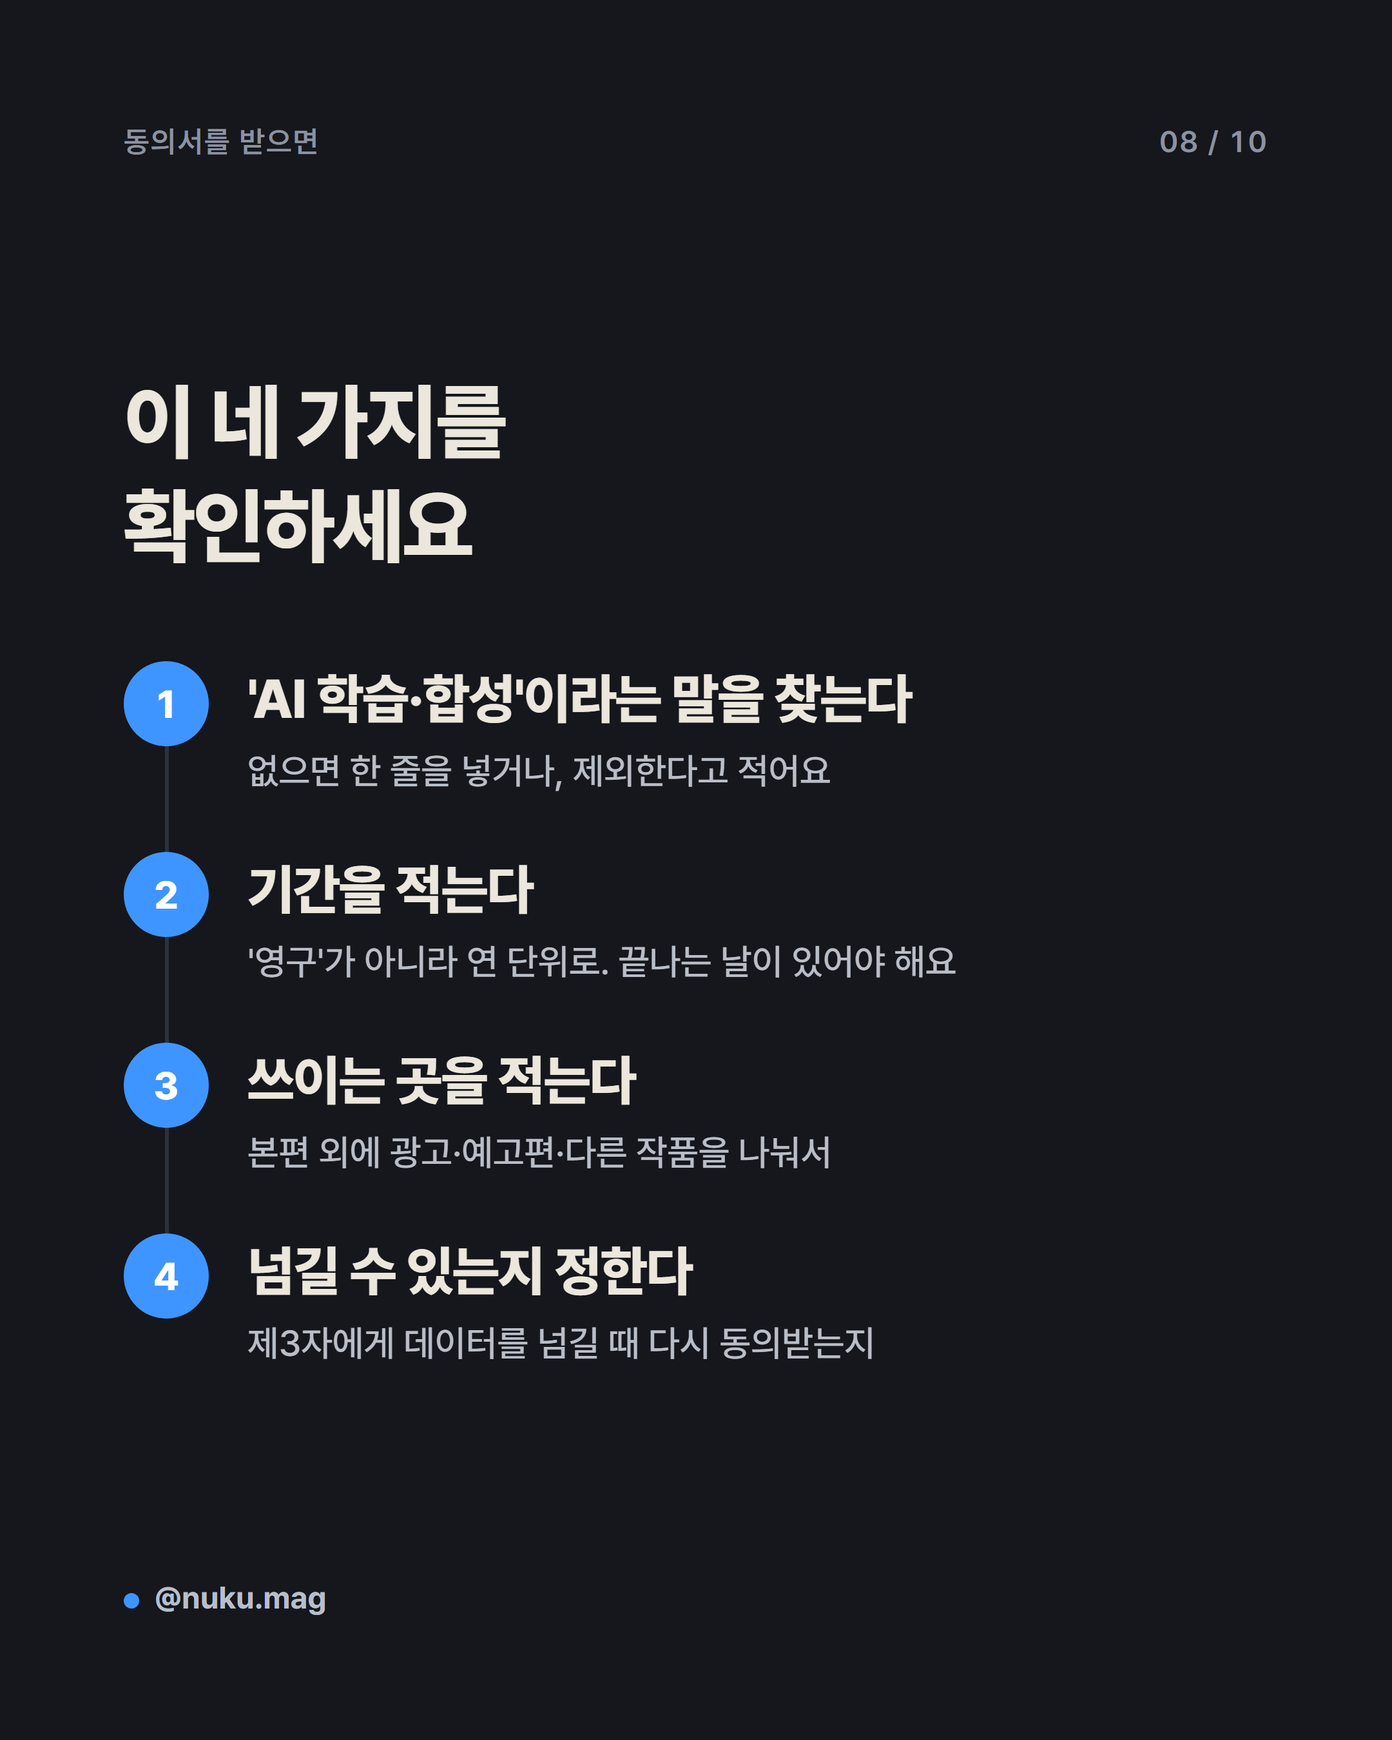
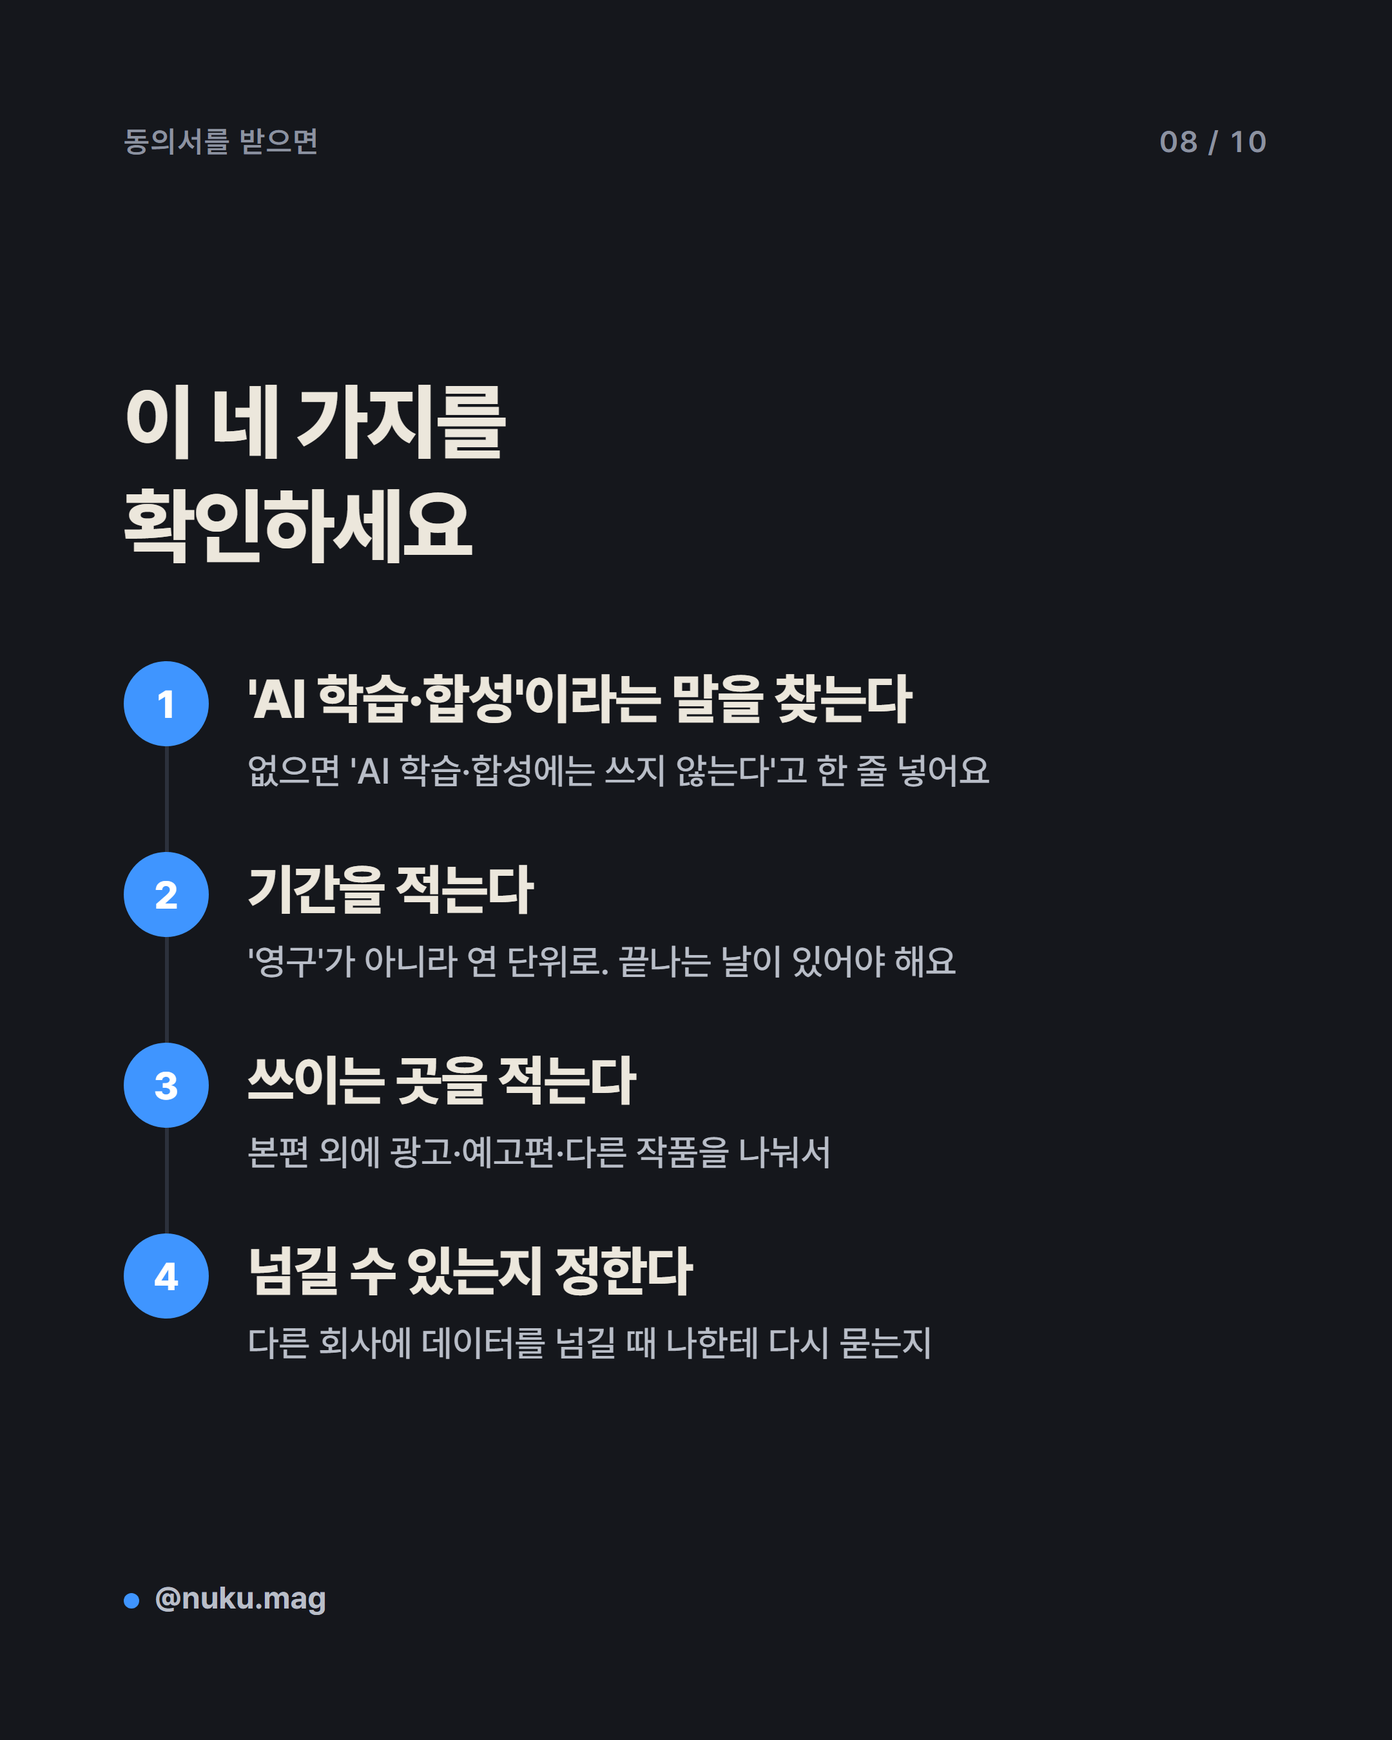
69 AI합성·출연동의 — 재검증·쉬운말 수정(상담처 132, 시행령 18조 3호, 초상권 문장 정정)
Claude-Session: https://claude.ai/code/session_01N64YUSqSatypwqokCkaxEy

Changed region(s): [[0.1861, 0.7467, 0.6824, 0.7778], [0.2481, 0.4356, 0.7134, 0.4667]]

diff --git a/69_AI합성_출연동의/card08.html b/69_AI합성_출연동의/card08.html
@@ -112,7 +112,7 @@ u{text-decoration:none;background:linear-gradient(transparent 62%,color-mix(in s
 .step .st{flex:1;padding-top:4px;}
 .step .sh{font-size:42px;font-weight:800;line-height:1.22;letter-spacing:-.02em;}
 .step .sd{font-size:28px;color:var(--soft);line-height:1.45;margin-top:10px;font-weight:500;}
-</style></head><body><div class="frame"><div class="top"><span>동의서를 받으면</span><span class="num">08 / 10</span></div><div class="body"><div class="h2" style="margin-bottom:30px">이 네 가지를<br>확인하세요</div><div class="steps"><div class="step"><div class="sc">1</div><div class="ln"></div><div class="st"><div class="sh">'AI 학습·합성'이라는 말을 찾는다</div><div class="sd">없으면 한 줄을 넣거나, 제외한다고 적어요</div></div></div><div class="step"><div class="sc">2</div><div class="ln"></div><div class="st"><div class="sh">기간을 적는다</div><div class="sd">'영구'가 아니라 연 단위로. 끝나는 날이 있어야 해요</div></div></div><div class="step"><div class="sc">3</div><div class="ln"></div><div class="st"><div class="sh">쓰이는 곳을 적는다</div><div class="sd">본편 외에 광고·예고편·다른 작품을 나눠서</div></div></div><div class="step"><div class="sc">4</div><div class="ln"></div><div class="st"><div class="sh">넘길 수 있는지 정한다</div><div class="sd">제3자에게 데이터를 넘길 때 다시 동의받는지</div></div></div></div></div><div class="bot"><span class="h"><span class="dot"></span>@nuku.mag</span></div></div><script>
+</style></head><body><div class="frame"><div class="top"><span>동의서를 받으면</span><span class="num">08 / 10</span></div><div class="body"><div class="h2" style="margin-bottom:30px">이 네 가지를<br>확인하세요</div><div class="steps"><div class="step"><div class="sc">1</div><div class="ln"></div><div class="st"><div class="sh">'AI 학습·합성'이라는 말을 찾는다</div><div class="sd">없으면 'AI 학습·합성에는 쓰지 않는다'고 한 줄 넣어요</div></div></div><div class="step"><div class="sc">2</div><div class="ln"></div><div class="st"><div class="sh">기간을 적는다</div><div class="sd">'영구'가 아니라 연 단위로. 끝나는 날이 있어야 해요</div></div></div><div class="step"><div class="sc">3</div><div class="ln"></div><div class="st"><div class="sh">쓰이는 곳을 적는다</div><div class="sd">본편 외에 광고·예고편·다른 작품을 나눠서</div></div></div><div class="step"><div class="sc">4</div><div class="ln"></div><div class="st"><div class="sh">넘길 수 있는지 정한다</div><div class="sd">다른 회사에 데이터를 넘길 때 나한테 다시 묻는지</div></div></div></div></div><div class="bot"><span class="h"><span class="dot"></span>@nuku.mag</span></div></div><script>
 (function(){
   function fit(el){
     var maxH=parseFloat(el.dataset.fith)||470,

diff --git a/69_AI합성_출연동의/card09.html b/69_AI합성_출연동의/card09.html
@@ -112,7 +112,7 @@ u{text-decoration:none;background:linear-gradient(transparent 62%,color-mix(in s
 .step .st{flex:1;padding-top:4px;}
 .step .sh{font-size:42px;font-weight:800;line-height:1.22;letter-spacing:-.02em;}
 .step .sd{font-size:28px;color:var(--soft);line-height:1.45;margin-top:10px;font-weight:500;}
-</style></head><body><div class="frame"><div class="top"><span>저장 포인트</span><span class="num">09 / 10</span></div><div class="body"><div class="h2" style="margin-bottom:40px">오늘의<br>저장 포인트</div><div class="srow"><div class="snum">1</div><div class="slabel">'촬영물 사용' 동의와 'AI 학습·합성' 동의는 다른 얘기다</div></div><div class="srow"><div class="snum">2</div><div class="slabel">부정경쟁방지법 타목은 '국내에 널리 인식되고'를 요건으로 한다</div></div><div class="srow"><div class="snum">3</div><div class="slabel">얼굴·음성으로 만든 식별 정보는 민감정보라 별도 동의가 필요하다</div></div><div class="srow"><div class="snum">4</div><div class="slabel">인격표지영리권은 입법 논의 단계 — 지금은 동의서가 방어선이다</div></div></div><div class="bot"><span class="h"><span class="dot"></span>@nuku.mag</span></div></div><script>
+</style></head><body><div class="frame"><div class="top"><span>저장 포인트</span><span class="num">09 / 10</span></div><div class="body"><div class="h2" style="margin-bottom:40px">오늘의<br>저장 포인트</div><div class="srow"><div class="snum">1</div><div class="slabel">'촬영본 사용' 동의와 'AI 학습·합성' 동의는 다르다</div></div><div class="srow"><div class="snum">2</div><div class="slabel">유명인 조문은 단역·보조출연자에겐 적용되기 어렵다 — 동의서 문장이 기준</div></div><div class="srow"><div class="snum">3</div><div class="slabel">AI가 알아보도록 뽑아낸 얼굴·목소리 정보는 따로 동의가 필요하다</div></div><div class="srow"><div class="snum">4</div><div class="slabel">내 얼굴로 돈 벌 권리는 아직 법이 아니다 — 지금은 동의서가 답</div></div></div><div class="bot"><span class="h"><span class="dot"></span>@nuku.mag</span></div></div><script>
 (function(){
   function fit(el){
     var maxH=parseFloat(el.dataset.fith)||470,

diff --git a/69_AI합성_출연동의/card03.html b/69_AI합성_출연동의/card03.html
@@ -112,7 +112,7 @@ u{text-decoration:none;background:linear-gradient(transparent 62%,color-mix(in s
 .step .st{flex:1;padding-top:4px;}
 .step .sh{font-size:42px;font-weight:800;line-height:1.22;letter-spacing:-.02em;}
 .step .sd{font-size:28px;color:var(--soft);line-height:1.45;margin-top:10px;font-weight:500;}
-</style></head><body><div class="frame"><div class="top"><span>비교</span><span class="num">03 / 10</span></div><div class="body"><span class="label">같은 얼굴, 다른 이야기</span><div class="cmp"><div class="col"><div class="nm">찍은 것을 쓴다</div><p>촬영한 장면을 편집해 내보낸다</p><p>내가 한 연기 그대로</p></div><div class="col"><div class="nm" style="color:var(--accent)">찍은 것으로 만든다</div><p>얼굴·목소리를 학습시켜 새 장면을 만든다</p><p>내가 한 적 없는 말과 표정</p></div></div><div class="punch">동의서에 '촬영물 사용'만 적혀 있으면 오른쪽까지 허락한 건지 다투게 됩니다.</div></div><div class="bot"><span class="h"><span class="dot"></span>@nuku.mag</span></div></div><script>
+</style></head><body><div class="frame"><div class="top"><span>비교</span><span class="num">03 / 10</span></div><div class="body"><span class="label">같은 얼굴, 다른 이야기</span><div class="cmp"><div class="col"><div class="nm">찍은 것을 쓴다</div><p>촬영한 장면을 편집해 내보낸다</p><p>내가 한 연기 그대로</p></div><div class="col"><div class="nm" style="color:var(--accent)">찍은 것으로 만든다</div><p>얼굴·목소리를 학습시켜 새 장면을 만든다</p><p>내가 한 적 없는 말과 표정</p></div></div><div class="punch">동의서에 '촬영물 사용'만 적혀 있으면, 오른쪽까지 허락한 건지를 두고 다투게 돼요.</div></div><div class="bot"><span class="h"><span class="dot"></span>@nuku.mag</span></div></div><script>
 (function(){
   function fit(el){
     var maxH=parseFloat(el.dataset.fith)||470,

diff --git a/69_AI합성_출연동의/card10.html b/69_AI합성_출연동의/card10.html
@@ -112,7 +112,7 @@ u{text-decoration:none;background:linear-gradient(transparent 62%,color-mix(in s
 .step .st{flex:1;padding-top:4px;}
 .step .sh{font-size:42px;font-weight:800;line-height:1.22;letter-spacing:-.02em;}
 .step .sd{font-size:28px;color:var(--soft);line-height:1.45;margin-top:10px;font-weight:500;}
-</style></head><body><div class="frame"><div class="top"><span>마무리</span><span class="num">10 / 10</span></div><div class="body"><div class="h2">한 번 넘긴 얼굴은<br>되돌리기 어렵습니다</div><div class="sub">촬영 전에 동의서에서 네 글자를 찾아보세요. 학습, 합성.<br>없으면 그 자리에 한 줄을 넣으면 됩니다.<br><br>※ 일반 정보예요. 어떤 사용이 허락 범위를 넘는지, 어떤 정보가 민감정보에 해당하는지는 사안마다 다릅니다. 개별 사안은 한국저작권위원회(1800-5455) 상담을 받으세요.</div><div><div class="ctabox">저장해두고 동의서 받을 때 꺼내보세요</div></div></div><div class="bot"><span class="h"><span class="dot"></span>@nuku.mag</span></div></div><script>
+</style></head><body><div class="frame"><div class="top"><span>마무리</span><span class="num">10 / 10</span></div><div class="body"><div class="h2">한 번 넘긴 얼굴은<br>되돌리기 어렵습니다</div><div class="sub">촬영 전에 동의서에서 네 글자를 찾아보세요. 학습, 합성.<br>없으면 'AI 학습·합성에는 쓰지 않는다'고 한 줄 넣으면 됩니다.<br><br>※ 일반 정보예요. 어떤 사용이 허락 범위를 넘는지는 사안마다 다릅니다. 개별 사안은 대한법률구조공단(132) 상담을 받으세요.</div><div><div class="ctabox">저장해두고 동의서 받을 때 꺼내보세요</div></div></div><div class="bot"><span class="h"><span class="dot"></span>@nuku.mag</span></div></div><script>
 (function(){
   function fit(el){
     var maxH=parseFloat(el.dataset.fith)||470,

diff --git a/69_AI합성_출연동의/card06.html b/69_AI합성_출연동의/card06.html
@@ -112,7 +112,7 @@ u{text-decoration:none;background:linear-gradient(transparent 62%,color-mix(in s
 .step .st{flex:1;padding-top:4px;}
 .step .sh{font-size:42px;font-weight:800;line-height:1.22;letter-spacing:-.02em;}
 .step .sd{font-size:28px;color:var(--soft);line-height:1.45;margin-top:10px;font-weight:500;}
-</style></head><body><div class="frame"><div class="top"><span>왜 중요한가</span><span class="num">06 / 10</span></div><div class="body"><div class="h2">얼굴은<br><u>개인정보</u>이기도 합니다</div><div class="sub">개인정보 보호법 제23조는 사생활을 현저히 침해할 우려가 있는 정보를<br>민감정보로 두고 별도 동의를 요구해요.<br><br>시행령 제18조가 그 목록을 정하는데, 얼굴·음성처럼<br>기술적 수단으로 특징을 뽑아내 특정인을 알아보려고 만든 정보가 들어갑니다.<br><br>'촬영에 동의했다'가 '얼굴 데이터를 넘겨도 된다'는 뜻은 아니에요.</div></div><div class="bot"><span class="h"><span class="dot"></span>@nuku.mag</span></div></div><script>
+</style></head><body><div class="frame"><div class="top"><span>왜 중요한가</span><span class="num">06 / 10</span></div><div class="body"><div class="h2">얼굴은<br><u>개인정보</u>이기도 합니다</div><div class="sub">개인정보 보호법은 특히 조심해야 할 정보를<br>'민감정보'로 묶어서 따로 동의를 받게 해요.<br><br>얼굴·목소리를 AI가 <em>누군지 알아볼 수 있게</em><br>데이터로 뽑아낸 정보가 여기 들어갑니다.<br>(제23조, 시행령 제18조 제3호)<br><br>'촬영에 동의했다'가 '얼굴 데이터를 넘겨도 된다'는 뜻은 아니에요.</div></div><div class="bot"><span class="h"><span class="dot"></span>@nuku.mag</span></div></div><script>
 (function(){
   function fit(el){
     var maxH=parseFloat(el.dataset.fith)||470,

diff --git a/69_AI합성_출연동의/card07.html b/69_AI합성_출연동의/card07.html
@@ -112,7 +112,7 @@ u{text-decoration:none;background:linear-gradient(transparent 62%,color-mix(in s
 .step .st{flex:1;padding-top:4px;}
 .step .sh{font-size:42px;font-weight:800;line-height:1.22;letter-spacing:-.02em;}
 .step .sd{font-size:28px;color:var(--soft);line-height:1.45;margin-top:10px;font-weight:500;}
-</style></head><body><div class="frame"><div class="top"><span>아직 만들어지는 중</span><span class="num">07 / 10</span></div><div class="body"><span class="label">내 얼굴로 돈 벌 권리</span><div class="spot">논의 중</div><div class="h2">법에 이름이 붙는 건<br>아직입니다</div><div class="spotcap">법무부가 2022년 말에 '인격표지영리권'을 민법에 넣는 개정안을 입법예고했어요. 아직 그 자리가 비어 있어서, 지금은 계약서와 동의서가 그 빈자리를 대신합니다.</div></div><div class="bot"><span class="h"><span class="dot"></span>@nuku.mag</span></div></div><script>
+</style></head><body><div class="frame"><div class="top"><span>아직 만들어지는 중</span><span class="num">07 / 10</span></div><div class="body"><span class="label">내 얼굴로 돈 벌 권리</span><div class="spot">논의 중</div><div class="h2">아직<br>법이 되지 않았어요</div><div class="spotcap">법무부가 2022년 말, 내 이름·얼굴·목소리로 돈 벌 권리('인격표지영리권')를 민법에 넣자는 안을 냈어요. 그 뒤로 아직 법이 되지 않았고, 지금은 계약서와 동의서가 그 빈자리를 채웁니다.</div></div><div class="bot"><span class="h"><span class="dot"></span>@nuku.mag</span></div></div><script>
 (function(){
   function fit(el){
     var maxH=parseFloat(el.dataset.fith)||470,

diff --git a/69_AI합성_출연동의/card04.html b/69_AI합성_출연동의/card04.html
@@ -112,7 +112,7 @@ u{text-decoration:none;background:linear-gradient(transparent 62%,color-mix(in s
 .step .st{flex:1;padding-top:4px;}
 .step .sh{font-size:42px;font-weight:800;line-height:1.22;letter-spacing:-.02em;}
 .step .sd{font-size:28px;color:var(--soft);line-height:1.45;margin-top:10px;font-weight:500;}
-</style></head><body><div class="frame"><div class="top"><span>왜 중요한가</span><span class="num">04 / 10</span></div><div class="body"><div class="h2">유명한 사람이라면<br><em>다툴 조문</em>이 있어요</div><div class="sub">부정경쟁방지법 제2조 제1호 타목 —<br>"국내에 널리 인식되고 경제적 가치를 가지는 타인의 성명, 초상, 음성, 서명 등<br>그 타인을 식별할 수 있는 표지를 공정한 상거래 관행이나 경쟁질서에 반하는<br>방법으로 자신의 영업을 위하여 무단으로 사용함으로써<br>타인의 경제적 이익을 침해하는 행위"</div></div><div class="bot"><span class="h"><span class="dot"></span>@nuku.mag</span></div></div><script>
+</style></head><body><div class="frame"><div class="top"><span>왜 중요한가</span><span class="num">04 / 10</span></div><div class="body"><div class="h2">유명한 사람이라면<br><em>기댈 법</em>이 있어요</div><div class="sub">부정경쟁방지법 제2조 제1호 타목<br><br>쉽게 말하면 —<br><em>널리 알려진 사람</em>의 이름·얼굴·목소리를<br>허락 없이 장사에 쓰면 안 된다는 조문이에요.</div></div><div class="bot"><span class="h"><span class="dot"></span>@nuku.mag</span></div></div><script>
 (function(){
   function fit(el){
     var maxH=parseFloat(el.dataset.fith)||470,

diff --git a/69_AI합성_출연동의/card05.html b/69_AI합성_출연동의/card05.html
@@ -112,7 +112,7 @@ u{text-decoration:none;background:linear-gradient(transparent 62%,color-mix(in s
 .step .st{flex:1;padding-top:4px;}
 .step .sh{font-size:42px;font-weight:800;line-height:1.22;letter-spacing:-.02em;}
 .step .sd{font-size:28px;color:var(--soft);line-height:1.45;margin-top:10px;font-weight:500;}
-</style></head><body><div class="frame"><div class="top"><span>흔한 착각</span><span class="num">05 / 10</span></div><div class="body"><span class="label">이렇게 생각하기 쉬워요</span><div class="wrong">내 얼굴이니까 다 막을 수 있다</div><div class="sub">방금 그 조문은 <em>'국내에 널리 인식되고'</em>를 요건으로 달아 뒀어요.<br>단역이나 스태프는 이 문턱을 넘기 어렵습니다.<br><u>그래서 동의서가 실질적인 방어선이에요.</u></div></div><div class="bot"><span class="h"><span class="dot"></span>@nuku.mag</span></div></div><script>
+</style></head><body><div class="frame"><div class="top"><span>흔한 착각</span><span class="num">05 / 10</span></div><div class="body"><span class="label">이렇게 생각하기 쉬워요</span><div class="wrong">유명인 조문이 나도 지켜준다</div><div class="sub">방금 그 조문은 <em>'널리 알려진 사람'</em>만 지켜줘요.<br>단역·보조출연자도 초상권은 있지만,<br>서명한 동의서 문장이 넓으면 그 범위를 두고 다투게 돼요.<br><u>그래서 결국 동의서 문장이 나를 지켜요.</u></div></div><div class="bot"><span class="h"><span class="dot"></span>@nuku.mag</span></div></div><script>
 (function(){
   function fit(el){
     var maxH=parseFloat(el.dataset.fith)||470,

diff --git a/69_AI합성_출연동의/card02.html b/69_AI합성_출연동의/card02.html
@@ -112,7 +112,7 @@ u{text-decoration:none;background:linear-gradient(transparent 62%,color-mix(in s
 .step .st{flex:1;padding-top:4px;}
 .step .sh{font-size:42px;font-weight:800;line-height:1.22;letter-spacing:-.02em;}
 .step .sd{font-size:28px;color:var(--soft);line-height:1.45;margin-top:10px;font-weight:500;}
-</style></head><body><div class="frame"><div class="top"><span>왜 중요한가</span><span class="num">02 / 10</span></div><div class="body"><div class="h2">동의서 대부분은<br><u>촬영본 사용</u>까지만<br>적혀 있어요</div><div class="sub">'본 촬영물을 홍보 목적으로 사용하는 데 동의합니다' —<br>익숙한 문장이죠.<br><br>여기 없는 말이 두 개예요. <em>학습</em>과 <em>합성</em>.<br>찍은 것을 쓰는 일과, 그걸로 새로 만들어 내는 일은 다릅니다.</div></div><div class="bot"><span class="h"><span class="dot"></span>@nuku.mag</span></div></div><script>
+</style></head><body><div class="frame"><div class="top"><span>왜 중요한가</span><span class="num">02 / 10</span></div><div class="body"><div class="h2">흔한 동의서는<br><u>촬영본 사용</u>까지만<br>적혀 있어요</div><div class="sub">'본 촬영물을 홍보 목적으로 사용하는 데 동의합니다' —<br>익숙한 문장이죠.<br><br>여기 없는 말이 두 개예요. <em>학습</em>과 <em>합성</em>.<br>찍은 것을 쓰는 일과, 그걸로 새로 만들어 내는 일은 다릅니다.</div></div><div class="bot"><span class="h"><span class="dot"></span>@nuku.mag</span></div></div><script>
 (function(){
   function fit(el){
     var maxH=parseFloat(el.dataset.fith)||470,
